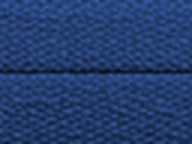
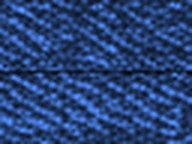
feat: guide zipper tape uses the denim texture; teeth are split per tooth (metal bars by side, vislon along the interlock line) so open halves keep whole teeth; closed part is one image; softer nylon highlights; new tape.png for all kinds

diff --git a/components/ZipperPlay.tsx b/components/ZipperPlay.tsx
@@ -33,16 +33,16 @@ const clamp = (v: number, lo: number, hi: number) => Math.min(hi, Math.max(lo, v
 // f: 호수에 따른 배율(5호 = 1). 지퍼 줄은 가운데(W/2, CY)를 축으로 키우고 줄인다
 const grow = (f: number) => `translate(${W / 2} ${CY}) scale(${f}) translate(${-W / 2} ${-CY})`
 
-// 지퍼 반쪽(테이프 + 그 반쪽의 이) 사진. 위·아래 두 장은 닫히면 빈틈없이 맞물린다.
+// 지퍼 줄 사진(테이프는 데님 결, 이는 tape.png 에서 하나씩 주인을 가른 것). 세 장 모두 같은 자리·크기다.
+//   full: 닫힌 구간(맞물린 그대로 한 장) / up·dn: 열린 구간의 반쪽(테이프 + 자기 이만, 이 사이 틈은 비어 있다)
 // 테이프는 테이프 색으로 물들이고, 그 위에 이만 따로 자른 사진(-t)을 이 색으로 물들여 얹는다.
-const Half = ({ kind, half, f }: { kind: ZipKind; half: 'up' | 'dn'; f: number }) => {
+const Strip = ({ kind, part, f }: { kind: ZipKind; part: 'full' | 'up' | 'dn'; f: number }) => {
   const st = STRIP[kind]
-  const g = st[half]
-  const img = { x: -W, y: CY + g.y, width: st.len, height: g.h, preserveAspectRatio: 'none' as const }
+  const img = { x: -W, y: CY + st.y, width: st.len, height: st.h, preserveAspectRatio: 'none' as const }
   return (
     <g transform={grow(f)} filter="url(#zp-hsh)">
-      <image href={`/zipper/${kind}-${half}.webp`} {...img} filter="url(#zp-tint-tape)" />
-      {st.mask && <image href={`/zipper/${kind}-${half}-t.webp`} {...img} filter="url(#zp-tint-teeth)" />}
+      <image href={`/zipper/${kind}-${part}.webp`} {...img} filter="url(#zp-tint-tape)" />
+      {st.mask && <image href={`/zipper/${kind}-${part}-t.webp`} {...img} filter="url(#zp-tint-teeth)" />}
     </g>
   )
 }
@@ -307,7 +307,7 @@ const ZipperPlay = ({ kind, size = 5, pull = 'tab' }: { kind: ZipKind; size?: nu
     }
   }, [])
 
-  const half = (h: 'up' | 'dn', dy = 0) => <use href={`#zp-half-${h}`} y={dy} />
+  const half = (h: 'full' | 'up' | 'dn', dy = 0) => <use href={`#zp-half-${h}`} y={dy} />
   const st = STRIP[kind]
   const teethColor = kind === 'metal' ? 'var(--cfg-s1)' : 'var(--cfg-teeth)'
 
@@ -324,9 +324,9 @@ const ZipperPlay = ({ kind, size = 5, pull = 'tab' }: { kind: ZipKind; size?: nu
           <Tint id="zp-tint-tape" color="var(--cfg-tape)" slope={st.tape} />
           <Tint id="zp-tint-teeth" color={teethColor} slope={st.teeth} />
           <Tint id="zp-tint-k" color="var(--cfg-k1)" slope={1.25} shadow />
-          {(['up', 'dn'] as const).map((h) => (
+          {(['full', 'up', 'dn'] as const).map((h) => (
             <g key={h} id={`zp-half-${h}`}>
-              <Half kind={kind} half={h} f={f} />
+              <Strip kind={kind} part={h} f={f} />
             </g>
           ))}
         </defs>
@@ -345,10 +345,7 @@ const ZipperPlay = ({ kind, size = 5, pull = 'tab' }: { kind: ZipKind; size?: nu
       {/* 닫힌 구간: 두 반쪽이 맞물린 그대로 */}
       <div className="zp__win zp__win--closed">
         <div className="zp__in">
-          <Layer>
-            {half('up')}
-            {half('dn')}
-          </Layer>
+          <Layer>{half('full')}</Layer>
         </div>
       </div>
       {/* 열린 구간: 반쪽을 위·아래로 G 만큼 */}

diff --git a/lib/zipperParts.ts b/lib/zipperParts.ts
@@ -1,11 +1,11 @@
-// 자동 생성: scratchpad extract_v2.py (tape.png · slider.png → public/zipper). 직접 고치지 말 것.
-// 단위는 가이드 지퍼 그림 좌표(가로 640). y 는 가운데 줄 기준(위가 음수).
+// 자동 생성: scratchpad extract_v2.py · strips_v4.py (tape.png · texture.png · slider.png → public/zipper). 직접 고치지 말 것.
+// 단위는 가이드 지퍼 그림 좌표(가로 640). y 는 가운데 줄 기준(위가 음수). 줄 그림(full·up·dn)은 모두 같은 자리·크기. 줄 그림(full·up·dn)은 모두 같은 자리·크기. 줄 그림(full·up·dn)은 모두 같은 자리·크기. 줄 그림(full·up·dn)은 모두 같은 자리·크기. 줄 그림(full·up·dn)은 모두 같은 자리·크기. 줄 그림(full·up·dn)은 모두 같은 자리·크기.
 
 export const STRIP = {
-  metal: { len: 1920.0, up: { y: -121.0, h: 148.0 }, dn: { y: -29.0, h: 162.0 }, tape: 1.711, teeth: 1.478, mask: true },
-  vislon: { len: 1920.0, up: { y: -135.0, h: 170.0 }, dn: { y: -35.0, h: 174.0 }, tape: 1.723, teeth: 1.475, mask: true },
-  coil: { len: 1920.0, up: { y: -123.0, h: 124.0 }, dn: { y: -1.0, h: 114.0 }, tape: 2.107, teeth: 1.7, mask: true },
-  conceal: { len: 1920.0, up: { y: -145.0, h: 146.0 }, dn: { y: -1.0, h: 154.0 }, tape: 1.796, teeth: 1.796, mask: false },
+  metal: { len: 1920.0, y: -121.0, h: 238.0, tape: 1.947, teeth: 1.7, mask: true },
+  vislon: { len: 1920.0, y: -119.0, h: 236.0, tape: 1.932, teeth: 1.7, mask: true },
+  coil: { len: 1920.0, y: -123.0, h: 238.0, tape: 2.107, teeth: 1.7, mask: true },
+  conceal: { len: 1920.0, y: -115.0, h: 230.0, tape: 1.962, teeth: 1.7, mask: false },
 } as const
 
 // 손잡이별 슬라이더 사진: 폭·높이, 흔들림 축(그림 왼쪽 위 기준), 손잡이가 금속인지(금속이면 마감 색으로 물들인다)
